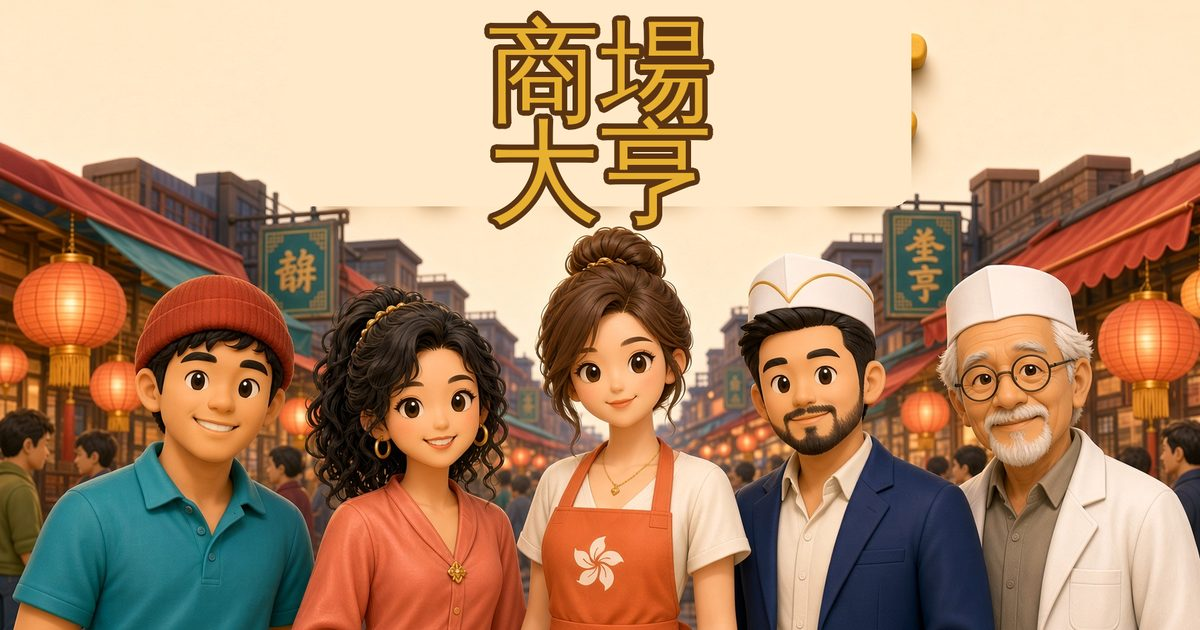
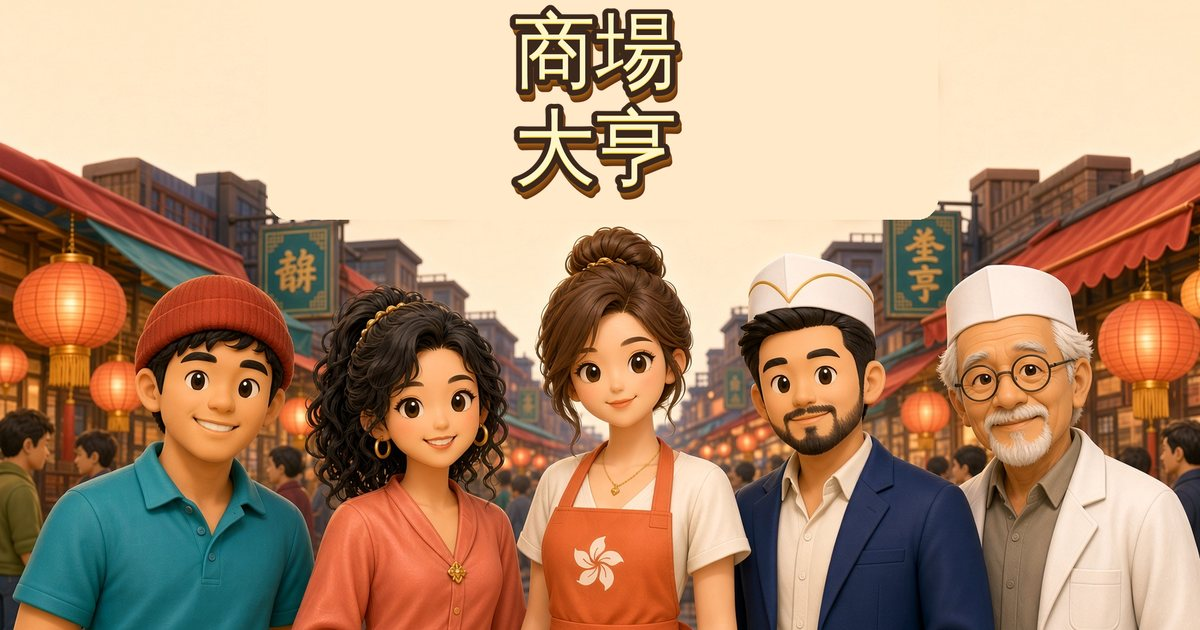
Use extruded 3D game lettering for the title

diff --git a/src/styles.css b/src/styles.css
@@ -784,13 +784,24 @@ button:disabled {
 .boot h1 {
   margin: 0;
   font-size: clamp(3rem, 14vw, 4.8rem);
-  line-height: 0.95;
-  color: var(--color-cream);
+  line-height: 0.92;
+  font-weight: 900;
+  letter-spacing: 0.04em;
+  color: #ffe566;
+  -webkit-text-stroke: 7px #3b271c;
+  paint-order: stroke fill;
   text-shadow:
-    0 4px 0 var(--color-edge),
-    3px 0 0 var(--color-edge),
-    -3px 0 0 var(--color-edge),
-    0 -3px 0 var(--color-edge);
+    0 1px 0 #fff6c8,
+    0 2px 0 #ffd56a,
+    0 3px 0 #f0b429,
+    0 4px 0 #e09a1a,
+    0 5px 0 #c47a10,
+    0 6px 0 #a85f0c,
+    0 7px 0 #8a4a0a,
+    0 9px 0 #3b271c,
+    3px 11px 0 #3b271c,
+    -3px 9px 0 #3b271c,
+    0 14px 10px rgba(59, 39, 28, 0.35);
 }
 
 .splash-host {
